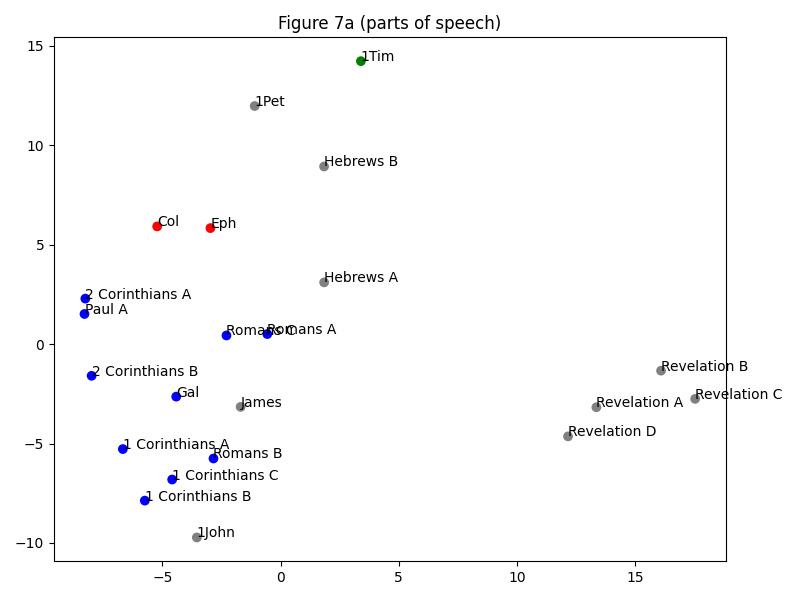
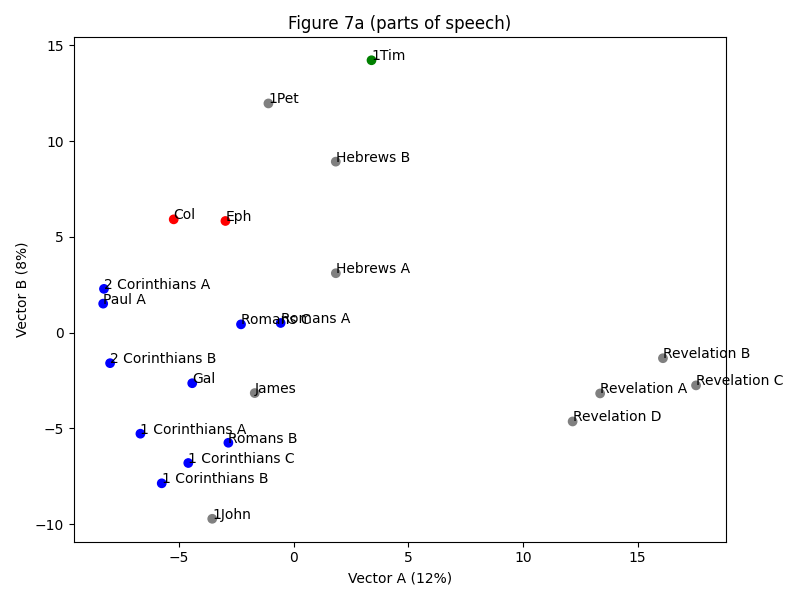
perfected figure 1

diff --git a/thesis.py b/thesis.py
@@ -13,6 +13,7 @@ from distance_printer import print_distance_info, print_just_distances
 from grammar_utils import calculate_normalized_part_of_speech_ngram_frequencies
 from dendrogram_utils import generate_dendrogram
 from general_utils import UNCONTESTED_PAUL_BOOKS
+from statistics import fmean
 
 """
 Generates figures for the thesis.
@@ -29,7 +30,7 @@ NUM_NGRAMS_WANTED = 500
 GRAMMAR_NGRAM_SIZE = 1
 
 # for dendrograms
-LINKAGE_ALGORITHM = 'average' # best with grammar dendrogram at least
+LINKAGE_ALGORITHM = 'average' # best at grouping Pauline books in grammar dendrogram at least
 DISTANCE_METRIC = 'cosine'
 
 book_to_text = read_relevant_texts_in_chunks(IDEAL_CHUNK_SIZE)
@@ -48,11 +49,10 @@ book_to_normalized_word_frequency, words = calculate_normalized_word_frequencies
 
 print(words)
 
-#generate_scatter_plot(book_to_normalized_word_frequency, book_to_text.keys(), title="Figure 1a", include_labels=True)
-#generate_component_plot(book_to_normalized_word_frequency, words, title="Figure 1b")
-#generate_dendrogram(book_to_normalized_word_frequency, book_names, LINKAGE_ALGORITHM, DISTANCE_METRIC, title='Figure 1c')
-#plt.show()
-#plt.close()
+xy_adjustments = {}
+generate_scatter_plot(book_to_normalized_word_frequency, book_to_text.keys(), "Figure 1", True, (0.1, -0.2), xy_adjustments, figsize=(16, 9))
+plt.show()
+plt.close()
 
 """
 PART 2: remove non-function words and too-short texts
@@ -103,7 +103,7 @@ book_to_normalized_bigram_frequency, bigrams = calculate_normalized_ngram_freque
 print(bigrams)
 #generate_scatter_plot(book_to_normalized_bigram_frequency, book_to_text.keys(), title="Figure 5a (bigrams)")
 #generate_component_plot(book_to_normalized_bigram_frequency, bigrams, title="Figure 5b")
-generate_dendrogram(book_to_normalized_bigram_frequency, book_names, LINKAGE_ALGORITHM, DISTANCE_METRIC, title='Figure 5c')
+#generate_dendrogram(book_to_normalized_bigram_frequency, book_names, LINKAGE_ALGORITHM, DISTANCE_METRIC, title='Figure 5c')
 #plt.show()
 #plt.close()
 
@@ -117,7 +117,7 @@ book_to_normalized_trigram_frequency, trigrams = calculate_normalized_ngram_freq
 print(trigrams)
 #generate_scatter_plot(book_to_normalized_trigram_frequency, book_to_text.keys(), title="Figure 5d (trigrams)")
 #generate_component_plot(book_to_normalized_trigram_frequency, trigrams, title="Figure 5e")
-generate_dendrogram(book_to_normalized_trigram_frequency, book_names, LINKAGE_ALGORITHM, DISTANCE_METRIC, title='Figure 5f')
+#generate_dendrogram(book_to_normalized_trigram_frequency, book_names, LINKAGE_ALGORITHM, DISTANCE_METRIC, title='Figure 5f')
 #plt.show()
 #plt.close()
 
@@ -145,9 +145,9 @@ print(parts)
 
 #generate_scatter_plot(book_to_normalized_part_frequency, grammar_book_names, title="Figure 7a (parts of speech)")
 #generate_component_plot(book_to_normalized_part_frequency, parts, title="Figure 7b")
-generate_dendrogram(book_to_normalized_part_frequency, grammar_book_names, LINKAGE_ALGORITHM, DISTANCE_METRIC, title='Figure 7c')
-plt.show()
-plt.close()
+#generate_dendrogram(book_to_normalized_part_frequency, grammar_book_names, LINKAGE_ALGORITHM, DISTANCE_METRIC, title='Figure 7c')
+#plt.show()
+#plt.close()
 
 grammar_distances = cosine_similarity(book_to_normalized_part_frequency)
 grammar_df = pd.DataFrame(grammar_distances, index=grammar_book_names, columns=grammar_book_names)

diff --git a/scatter_plot_utils.py b/scatter_plot_utils.py
@@ -17,11 +17,7 @@ label_text = {
   '3 John': '3John',
   'Acts': 'Acts',
   'Colossians': 'Col',
-  'Colossians parallel': 'CP',
-  'Colossians unique': 'CU',
   'Ephesians': 'Eph',
-  'Ephesians parallel': 'EphP',
-  'Ephesians unique': 'EphU',
   'Galatians': 'Gal',
   'Hebrews': 'Heb',
   'James': 'James',
@@ -34,7 +30,24 @@ label_text = {
   'Philippians': 'Phil',
   'Revelation': 'Rev',
   'Romans': 'Rom',
-  'Titus': 'Titus'}
+  'Titus': 'Titus',
+  'Paul': 'Paul',
+  'Ignatius': 'Ign',
+  'Clement 1 Corinthians': 'Clem1Cor',
+  'Clement 2 Corinthians': 'Clem2Cor',
+  'Barnabas': 'Bar',
+  'Didache': 'Did',
+  'Diognetus': 'Dio',
+  'Hermas Shepherd': 'Hermas',
+  'Ignatius Ephesians': 'IgEph',
+  'Ignatius Magnesians': 'Mag',
+  'Ignatius Philadelphians': 'IgPhil',
+  'Ignatius Polycarp': 'IgPoly',
+  'Ignatius Romans': 'IgRom',
+  'Ignatius Smyrnaeans': 'Smy',
+  'Ignatius Trallians': 'Tra',
+  'Iranaeus Martyrdom Polycarp': 'IrMartyr',
+  'Epistle of Jeremiah': 'Jer'}
 
 # Returns tuple of PCA, DataFrame
 def do_pca(book_to_normalized_unit_frequency):
@@ -83,11 +96,11 @@ def to_percent(decimal):
 # book_to_normalized_unit_frequency: a 2d List[book index][unit index]
 # where the book index matches the index of the same book in the given books
 # books: List of book titles
-def generate_scatter_plot(book_to_normalized_unit_frequency, books, title=None, include_labels=True):
+def generate_scatter_plot(book_to_normalized_unit_frequency, books, title=None, include_labels=True, base_xy=(0,0), xy_adjustments={}, figsize=(8,6)):
   pca, data = do_pca(book_to_normalized_unit_frequency)
 
   unique_figure_id = 1
-  fig = plt.figure(unique_figure_id, figsize=(8, 6))
+  fig = plt.figure(unique_figure_id, figsize=figsize)
   ax = fig.add_subplot()
 
   X_reduced = pca.transform(data)
@@ -99,7 +112,15 @@ def generate_scatter_plot(book_to_normalized_unit_frequency, books, title=None, 
 
   if include_labels:
     for i, book in enumerate(books):
-      ax.annotate(label_text.get(book, book), (X_reduced[i, 0], X_reduced[i, 1]))
+      x = X_reduced[i, 0] + base_xy[0] + xy_adjustments.get(book, (0, 0))[0]
+      y = X_reduced[i, 1] + base_xy[1] + xy_adjustments.get(book, (0, 0))[1]
+
+      book_name = book
+      book_suffix = ''
+      if book.endswith(('A', 'B', 'C', 'D')):
+        book_name = book[:-2]
+        book_suffix = book[-2:]
+      ax.annotate(label_text.get(book_name, book) + book_suffix, (x, y))
 
   variance = pca.explained_variance_ratio_
   ax.set_xlabel('Vector A (' + to_percent(variance[0]) + ')')

diff --git a/thesis_paul_markers.py b/thesis_paul_markers.py
@@ -7,7 +7,7 @@ def graph_paul_markers(book_to_text, title):
   colors = [get_label_color(b) for b in book_to_text.keys()]
 
   figure_letter = 'a'
-  for word in  ['δε', 'τουτο']:
+  for word in  ['δε', 'τουτο', 'εν']:
     frequencies = calculate_raw_function_word_frequencies(book_to_text, [word])
 
     fig = plt.figure(1, figsize=(8, 6))

diff --git a/README.md b/README.md
@@ -3,12 +3,10 @@ How to run:
 2. `startxwin &`
 3. `export DISPLAY=:0.0`
 4. `xterm &`
-5. In the X console, `python3.9 delta.py`
+5. In the X console, `python3.9 thesis.py`
 
 
 To run unit tests: `python3.9 -m unittest`
-
-Ephesians and Colossians were split into parallel and unique verses based on https://catholic-resources.org/Bible/Paul-Colossians-Ephesians.htm
 
 The documents in other-texts/ were obtained from https://www.ccel.org/l/lake/fathers/toc.htm
 
